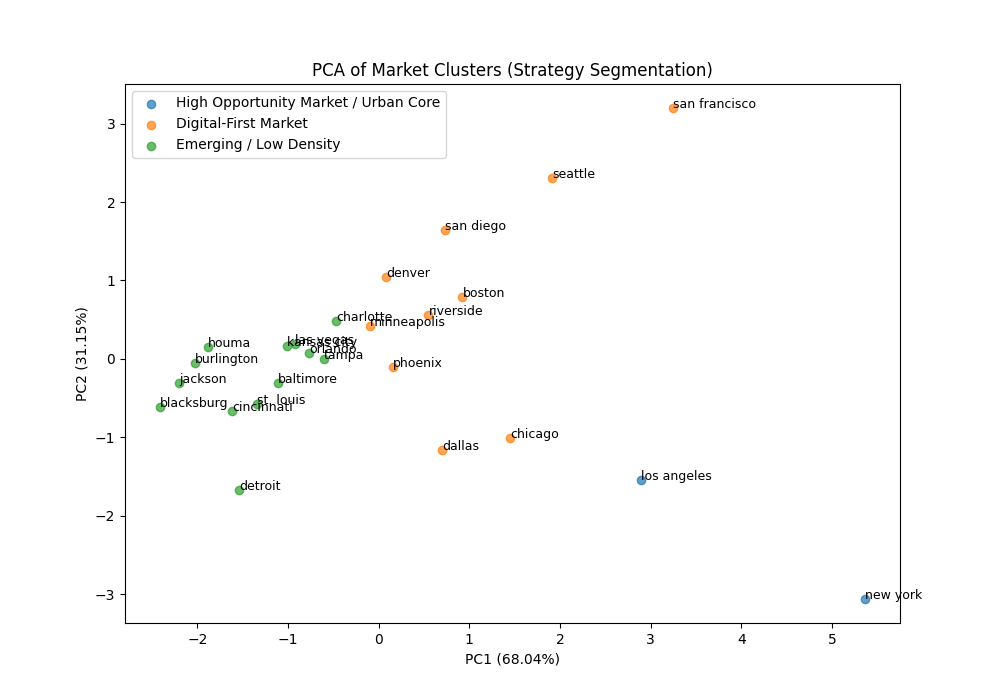
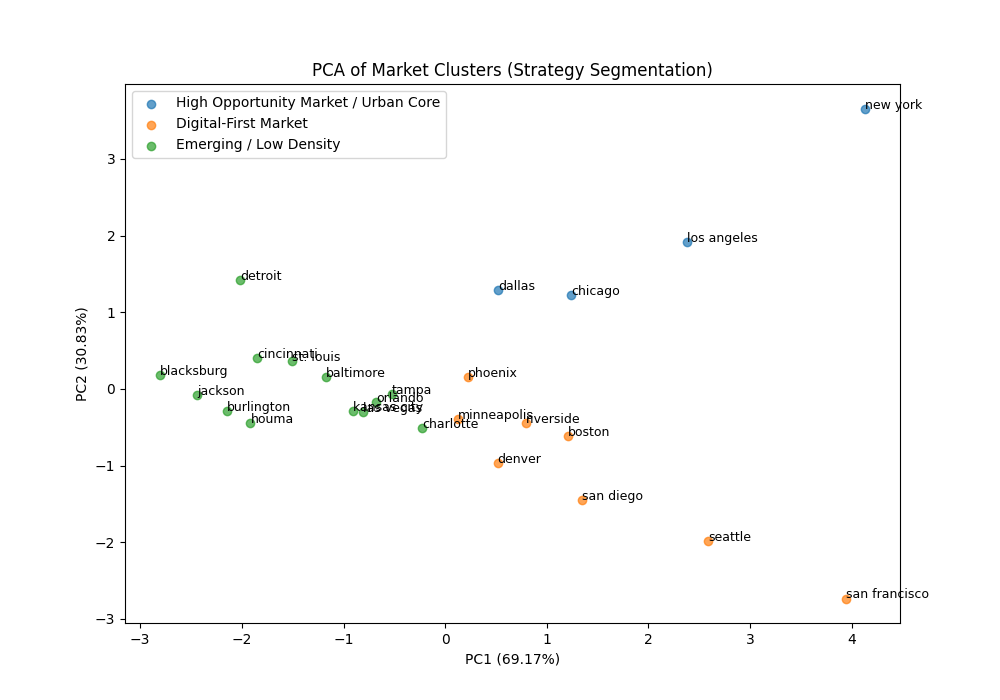
Updated README with visualizations and insights

diff --git a/src/market_analysis.py b/src/market_analysis.py
@@ -1,18 +1,34 @@
 # Market Opportunity Model: Estimate relative demand potential
-
+from sklearn.preprocessing import MinMaxScaler
 import pandas as pd
 
+
 def calculate_opportunity_score(df):
-    
-    df["income_factor"] = df["median_income"] / df["median_income"].max()
-    
-    df["demand_estimate"] = (
-        df["population"]
-        * df["car_ownership_rate"]
-        * df["income_factor"]
-        * df["online_adoption"]
+
+    cols = ["population", "median_income", "online_adoption", "store_count"]
+
+    scaler = MinMaxScaler()
+    scaled = scaler.fit_transform(df[cols])
+    scaled_df = pd.DataFrame(scaled, columns=cols)
+
+    df["opportunity_score"] = (
+        0.4 * scaled_df["population"] +
+        0.3 * scaled_df["median_income"] +
+        0.3 * scaled_df["online_adoption"]
+        - 0.5 * scaled_df["store_count"]  
     )
 
-    df["opportunity_score"] = df["demand_estimate"] / df["demand_estimate"].max()
+    return df
 
-    return df.sort_values("opportunity_score", ascending=False)
+def add_store_saturation(df, store_df):
+
+    store_counts = (
+        store_df.groupby(["city", "state"])
+        .size()
+        .reset_index(name="store_count")
+    )
+
+    df = df.merge(store_counts, on=["city", "state"], how="left")
+    df["store_count"] = df["store_count"].fillna(0)
+
+    return df

diff --git a/main.py b/main.py
@@ -1,16 +1,21 @@
 from src.load_data import load_city_data, load_store_data
-from src.market_analysis import calculate_opportunity_score
+from src.market_analysis import calculate_opportunity_score, add_store_saturation
 from src.facility_planning import estimate_reconditioning_need
 from src.roi_model import calculate_roi
 from src.store_strategy import assign_store_type
-from src.visualization import plot_opportunities, plot_clusters
+from src.visualization import get_top_markets, plot_opportunities, plot_clusters
 from src.geo_analysis import create_heatmap
 from src.clustering import run_clustering, label_clusters
 from src.model_evaluation import plot_elbow_method, plot_pca_clusters
 
+import pandas as pd
+
 def run_pipeline():
 
     df = load_city_data()
+    store_df = pd.read_csv("data/carmax_locations.csv")
+
+    df = add_store_saturation(df, store_df)
 
     df = calculate_opportunity_score(df)
 
@@ -25,6 +30,9 @@ def run_pipeline():
     df = estimate_reconditioning_need(df)
 
     df.to_csv("outputs/opportunity_analysis.csv", index=False)
+
+    top_df = get_top_markets(df)
+    top_df.to_csv("outputs/top_markets.csv", index=False)
 
     plot_opportunities(df)
     plot_clusters(df)

diff --git a/src/visualization.py b/src/visualization.py
@@ -21,7 +21,7 @@ def plot_opportunities(df):
 def plot_clusters(df):
 
     df = df.sort_values("opportunity_score", ascending=False).head(100)
-    
+
     plt.figure(figsize=(10, 6))
 
     for cluster in df["cluster"].unique():
@@ -41,3 +41,16 @@ def plot_clusters(df):
     plt.legend()
     plt.tight_layout()
     plt.show()
+
+def get_top_markets(df, n=10):
+
+    top_df = df.sort_values("opportunity_score", ascending=False).head(n)
+
+    return top_df[[
+        "city",
+        "state",
+        "population",
+        "median_income",
+        "opportunity_score",
+        "cluster_label"
+    ]]

diff --git a/README.md b/README.md
@@ -1,6 +1,8 @@
 # CarMax Market Expansion Strategy Analysis
 
-This is a personal project using a small dataset that analyzes market opportunities and infrastructure planning for CarMax expansion using Python.
+This project builds a data-driven framework to identify high-opportunity markets for CarMax expansion using demographic, behavorial, and economic data.
+<br>
+Using clustering and market scoring techniques, the model segments U.S. cities into strategic market categories and identifies where CarMax should prioritize growth.
 
 ## Business Questions
 - Where are the largest opportunity areas to reach new customers?
@@ -9,35 +11,71 @@ This is a personal project using a small dataset that analyzes market opportunit
 - How will online sales shift infrastructure needs?
 - Which regions require additional reconditioning centers?
 
-## Project Structure
+## Methodology
 
-data/
-<br>Market and demographic datasets
+### 1. Data Integration
+- U.S. Census API (median income)
+- City-level demographic and behavorial data
+- Market features:
+    - Population
+    - Median income
+    - Car Ownership Rate
+    - Online Adoption
+    - Opportunity Score
 
-src/
-<br>Python analysis modules
+### 2. Feature Engineering
+- Standardized key variables
+- Cleaned and aligned city/state data
+- Built composite opportunity score
 
-## Methods
-Market Opportunity Scoring
-Store Type Optimization
-Financial ROI Modeling
-Reconditioning Capacity Planning
+### 3. Clustering (KMeans)
+- Segmented markets into 3 clusters
+- Validated using:
+    - Elbow Method
+    - PCA visualization
 
-## Tools
+### 4. Market Segmentation
+![Market Clusters](Visualizations/Market%20Clusters.png)
+
+Markets were grouped into:
+- High Opportunity / Urban Core
+    - Large population, high income, strong demand
+- Growth Markets
+    - Mid-size cities with expansion potential
+- Emerging / Low-Density
+    - Smaller markets with lower short-term ROI
+
+## Key Results
+### **Top Opportunity Markets**
+![Top 15 Market Opportunity Scores](Visualizations/Top%2015%20Market%20Opportunity%20Scores.png)
+
+![Heatmap](Visualizations/Market%20Strategy%20Heatmap.png)
+
+- San Francisco, CA
+- New York, New York
+- Seattle, Washingtion
+
+### **Insights**
+- Growing mid-size cities offer the best expansion ROI
+- Major metros are saturated but remain critical for presence
+- Smaller markets show limited short-term return
+- Currently, my model favors high-income, digital-first markets
+    - These areas are great for CarMax stability, but for expansion, mid-size cities should have a higher ROI.
+
+- TODO: Factor store saturation into analysis in order to weigh major metros vs mid-size cities.
+
+## Model Evaluation
+- Elbow Method: Optimal cluster: k=3
+![Elbow Method](Visualizations/Elbow%20Method%20for%20Optimal%20Clusters.png)
+
+- PCA Analysis: Clear cluster separation
+![PCA Clusters](Visualizations/PCA%20of%20Market%20Clusters.png)
+
+
+## Tools & Technologies
 - Python
-- Pandas
-- NumPy
+- Pandas / NumPy
+- Scikit-learn (KMeans, PCA)
 - Matplotlib
-- Scikit-Learn
-
-## Example Output
-
-Top Opportunity Markets:
-
-Phoenix
-Austin
-Nashville
-
-
-
+- Folium (Heatmap)
 
